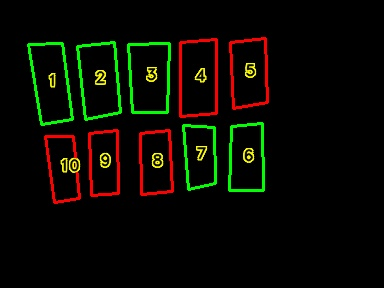
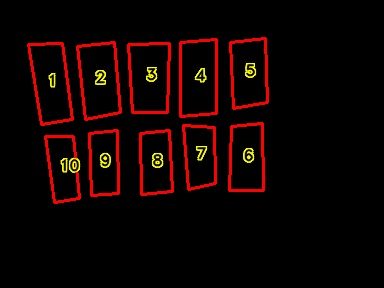
Test car coordinates
trying to check if car coordinates overlap with parking space lines.

Changed region(s): [[0.0625, 0.125, 0.4688, 0.4375], [0.4688, 0.4062, 0.7188, 0.6875]]

diff --git a/image_processing_software.py b/image_processing_software.py
@@ -15,10 +15,6 @@ def run_classifier(img, id, car_cascade):
     else:
         return True
 
-#def detect_cars():
-    #from new_segment import coordinates
-    
-    
 
 def parking_datasets(fn_yaml):
     with open(fn_yaml, 'r') as stream:
@@ -53,6 +49,16 @@ def get_parking_info(parking_data):
             mask = mask==255
             parking_mask.append(mask)
     return parking_contours, parking_bounding_rects, parking_mask, parking_data_motion;
+
+def get_car_info(data):
+    car_rects = []
+    car_bounding_rects = []
+    if data != None:
+        for coor in data:
+            coors = np.array(coor['coors'])
+            rect = cv2.boundingRect(coors)
+            car_bounding_rects.append(rect)
+    return car_bounding_rects
 
 def set_erode_kernel():
     kernel_erode = cv2.getStructuringElement(cv2.MORPH_ELLIPSE,(3,3))
@@ -95,26 +101,32 @@ def parking_info(spot):
     if data != []:
         yaml_dump(file_path, data)
 
+def detect_cars():
+    import new_segment
+    fn = "car_coor.yml"
+    with open(fn, 'r') as stream:
+        car_coor = yaml.load(stream)
+    return car_coor
 
-def print_parkIDs(park, points, line_img, car_cascade,
-                  parking_bounding_rects, grayImg, parking_data, parking_status, vpl):
+def print_parkIDs(park, points, line_img, car_coor,
+                  parking_bounding_rects, grayImg, parking_data, overlap, vpl):
 
     spots_change = 0
     total_spots = len(parking_data)
     for ind, park in enumerate(parking_data):
         points = np.array(park['points'])
-        if parking_status[ind]:
+        if not overlap:
             color = (0,255,0)
             spots_change += 1
             spot = 'Available'
             rect = parking_bounding_rects[ind]
             roi_gray_ov = grayImg[rect[1]:(rect[1] + rect[3]),
                            rect[0]:(rect[0] + rect[2])]  # crop roi for faster calcluation
-            res = run_classifier(roi_gray_ov, ind, car_cascade)
-            if res:
-                parking_data_motion.append(parking_data[ind])
+            #res = run_classifier(roi_gray_ov, ind, car_cascade)
+            #if res:
+            #    parking_data_motion.append(parking_data[ind])
                 
-                color = (0,0,255)
+            #    color = (0,0,255)
         else:
             color = (0,0,255)
             spot = 'Unavailable'
@@ -160,13 +172,25 @@ def print_parkIDs(park, points, line_img, car_cascade,
 
 
 def detection(parking_bounding_rects, parking_data, parking_status,
-              parking_buffer, grayImg, start, parking_mask, line_img, car_cascade, vpl):
+              parking_buffer, grayImg, start, parking_mask, line_img, car_coor, vpl):
 
     spots_change = 0
+    coors = []
+    car_rect = []
+    car_bounding_rects = get_car_info(car_coor)
+    for ind, coor in enumerate(car_coor):
+        coors = np.array(coor['coors'])
+        car_rect = car_bounding_rects[ind]
     # detecting cars and vacant spaces
     for ind, park in enumerate(parking_data):
         points = np.array(park['points'])
         rect = parking_bounding_rects[ind]
+
+        if points[2].all() > coors[1].all() or points[0].all() > coors[0].all():
+            #print(points)
+            overlap = False
+        else:
+            overlap = True
         roi_gray = grayImg[rect[1]:(rect[1]+rect[3]), rect[0]:(rect[0]+rect[2])] # crop roi for faster calcluation
 
         laplacian = cv2.Laplacian(roi_gray, cv2.CV_64F)
@@ -176,7 +200,8 @@ def detection(parking_bounding_rects, parking_data, parking_status,
         delta = np.mean(np.abs(laplacian * parking_mask[ind]))
         
         pos = time.time()
-        status = delta < 2.2
+        
+        '''status = delta < 2.2
         # If detected a change in parking status, save the current time
         if status != parking_status[ind] and parking_buffer[ind]==None:
             parking_buffer[ind] = pos
@@ -188,12 +213,12 @@ def detection(parking_bounding_rects, parking_data, parking_status,
                 parking_buffer[ind] = None
         # If status is still same and counter is open
         elif status == parking_status[ind] and parking_buffer[ind]!=None:
-            parking_buffer[ind] = None
+            parking_buffer[ind] = None'''
 
 # changing the color on the basis on status change occured in the above section and putting numbers on areas
     
-        print_parkIDs(park, points, line_img, car_cascade,
-                      parking_bounding_rects, grayImg, parking_data, parking_status, vpl)
+        print_parkIDs(park, points, line_img, car_coor,
+                      parking_bounding_rects, grayImg, parking_data, overlap, vpl)
  
     
 def main():
@@ -210,7 +235,7 @@ def main():
 
     cascade_src = 'cars.xml'
     car_cascade = cv2.CascadeClassifier(cascade_src)
-    #detect_cars()
+    car_coor = detect_cars()
 
     parking_contours, parking_bounding_rects, parking_mask, parking_data_motion = get_parking_info(parking_data)
 
@@ -256,7 +281,7 @@ def main():
 
     #Use the classifier to detect cars and help determine which parking spaces are available and unavailable
         detection(parking_bounding_rects, parking_data, parking_status,
-                  parking_buffer, grayImg, start, parking_mask, line_img, car_cascade, vpl)
+                  parking_buffer, grayImg, start, parking_mask, line_img, car_coor, vpl)
         cv2.imwrite("virtual_parking_lot.jpg",vpl)
 
 

diff --git a/detect_cars/new_segment.py b/detect_cars/new_segment.py
@@ -2,6 +2,7 @@ import numpy as np
 import cv2 as cv
 import os
 import random
+import yaml
 from camera_client import Camera
 confThreshold = 0.5
 maskThreshold = 0.3
@@ -124,12 +125,26 @@ def postprocess(boxes, masks):
              
             # Draw bounding box, colorize and show the mask on the image
             drawBox(frame, classId, score, left, top, right, bottom, classMask)
+            info = {'coors': []}
+            coor = []
+            data = []
+            coor.append((top, left))
+            coor.append((bottom, right))
+            corner_1 = list(coor[0])
+            corner_2 = list(coor[1])
+            info['coors'] = [corner_1, corner_2]
+            data.append(info)
+            with open('car_coor.yml','a') as file:
+                yaml.dump(data, file)
 
 
 while cv.waitKey(1) < 0:
      
     # Get frame from the video
     frame = cap.get_frame()
+    exists = os.path.isfile('car_coor.yml')
+    if exists:
+        os.remove('car_coor.yml')
     hasFrame = True
      
     # Stop the program if reached end of video
